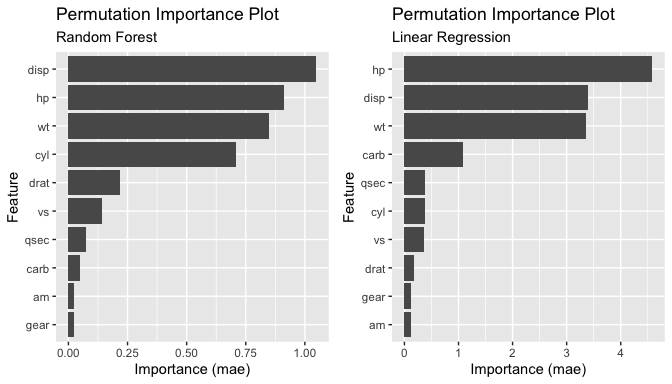
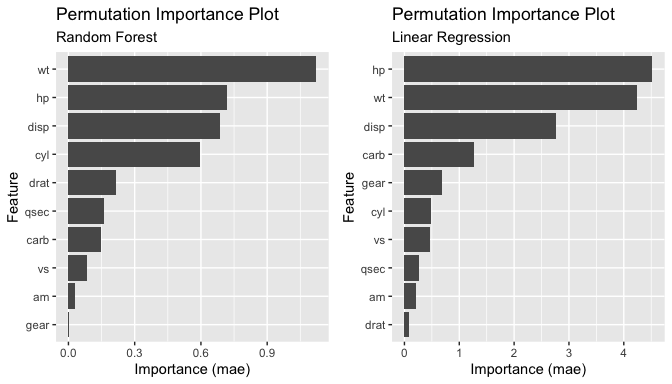
updated dependence code with new rlang functions

diff --git a/README.md b/README.md
@@ -28,7 +28,7 @@ devtools::install_github("mt-edwards/xrayspecs")
 library(xrayspecs)
 ```
 
-### Data set
+### Data Set
 
 The `mtcars` data set is used for this example. The `dplyr` package is
 used to transform the categorical features (`cyl`, `vs`, `am`, `gear`
@@ -51,7 +51,7 @@ mtcars <- mtcars %>%
   )
 ```
 
-### Random forest and linear regression models
+### Random Forest and Linear Regression Models
 
 A [random forest](https://en.wikipedia.org/wiki/Random_forest) and a
 [linear regression](https://en.wikipedia.org/wiki/Linear_regression)
@@ -76,26 +76,31 @@ lr <- linear_reg() %>%
   fit(mpg ~ ., data = mtcars)
 ```
 
-### Permutation importance plot
+### Permutation Importance Plot
 
 To display a [permutation
 importance](https://christophm.github.io/interpretable-ml-book/feature-importance.html)
 plot of the random forest and linear regression features all you need to
-do is pipe the `rf` and `lr` objects into the `importance_plot` function
-along with the data set (`mtcars`). Multiple plots are displayed using
-the `cowplot` package.
+do is pipe the `rf` and `lr` objects into the `plot_importance` function
+along with the data (`mtcars`) the target (`mpg`) and a metric from the
+`yardstick` package, e.g. `mae` (Mean Absolute Error). Multiple plots
+are displayed using the `cowplot` package. A feature importance is equal
+to the absolute difference between the metric estimates when the feature
+is and is not permuted in the data. **Note**: metrics must be
+appropriate for the target variable.
 
 ``` r
+library(yardstick)
 library(cowplot)
 
 # Random forest
 p1 <- rf %>% 
-  importance_plot(mtcars) +
+  plot_importance(mtcars, mpg, mae) +
   labs(subtitle = "Random Forest")
 
 # Linear regression
 p2 <- lr %>% 
-  importance_plot(mtcars) +
+  plot_importance(mtcars, mpg, mae) +
   labs(subtitle = "Linear Regression")
 
 plot_grid(p1, p2)
@@ -103,25 +108,25 @@ plot_grid(p1, p2)
 
 <img src="man/figures/README-unnamed-chunk-5-1.png" width="100%" />
 
-### Partial dependence plot
+### Partial Dependence Plot
 
 To display a [partial
 dependence](https://christophm.github.io/interpretable-ml-book/pdp.html)
-plot of a random forest feature all you need to do is pipe the `rf`
-object into the `dependence_plot` function along with the data set
-(`mtcars`) and the name of the feature. Here the partial dependece plots
-of the most “important” continuous and categorical features (`wt` and
-`cyl`) are displayed.
+plot of a feature for the random forest and linear regression models all
+you need to do is pipe the `rf` and `lr` objects into the
+`dependence_plot` function along with the data (`mtcars`) and the
+feature. Here the partial dependence plots of the most “important”
+continuous and categorical features (`wt` and `cyl`) are displayed.
 
 ``` r
 # Random forest
 p1 <- rf %>% 
-  dependence_plot(mtcars, wt) +
+  plot_dependence(mtcars, wt) +
   labs(subtitle = "Random Forest")
 
 # Linear regression
 p2 <- lr %>% 
-  dependence_plot(mtcars, wt) +
+  plot_dependence(mtcars, wt) +
   labs(subtitle = "Linear Regression")
 
 plot_grid(p1, p2)
@@ -132,12 +137,12 @@ plot_grid(p1, p2)
 ``` r
 # Random forest
 p1 <- rf %>% 
-  dependence_plot(mtcars, cyl) +
+  plot_dependence(mtcars, cyl) +
   labs(subtitle = "Random Forest")
 
 # Linear regression
 p2 <- lr %>% 
-  dependence_plot(mtcars, cyl) +
+  plot_dependence(mtcars, cyl) +
   labs(subtitle = "Linear Regression")
 
 plot_grid(p1, p2)
